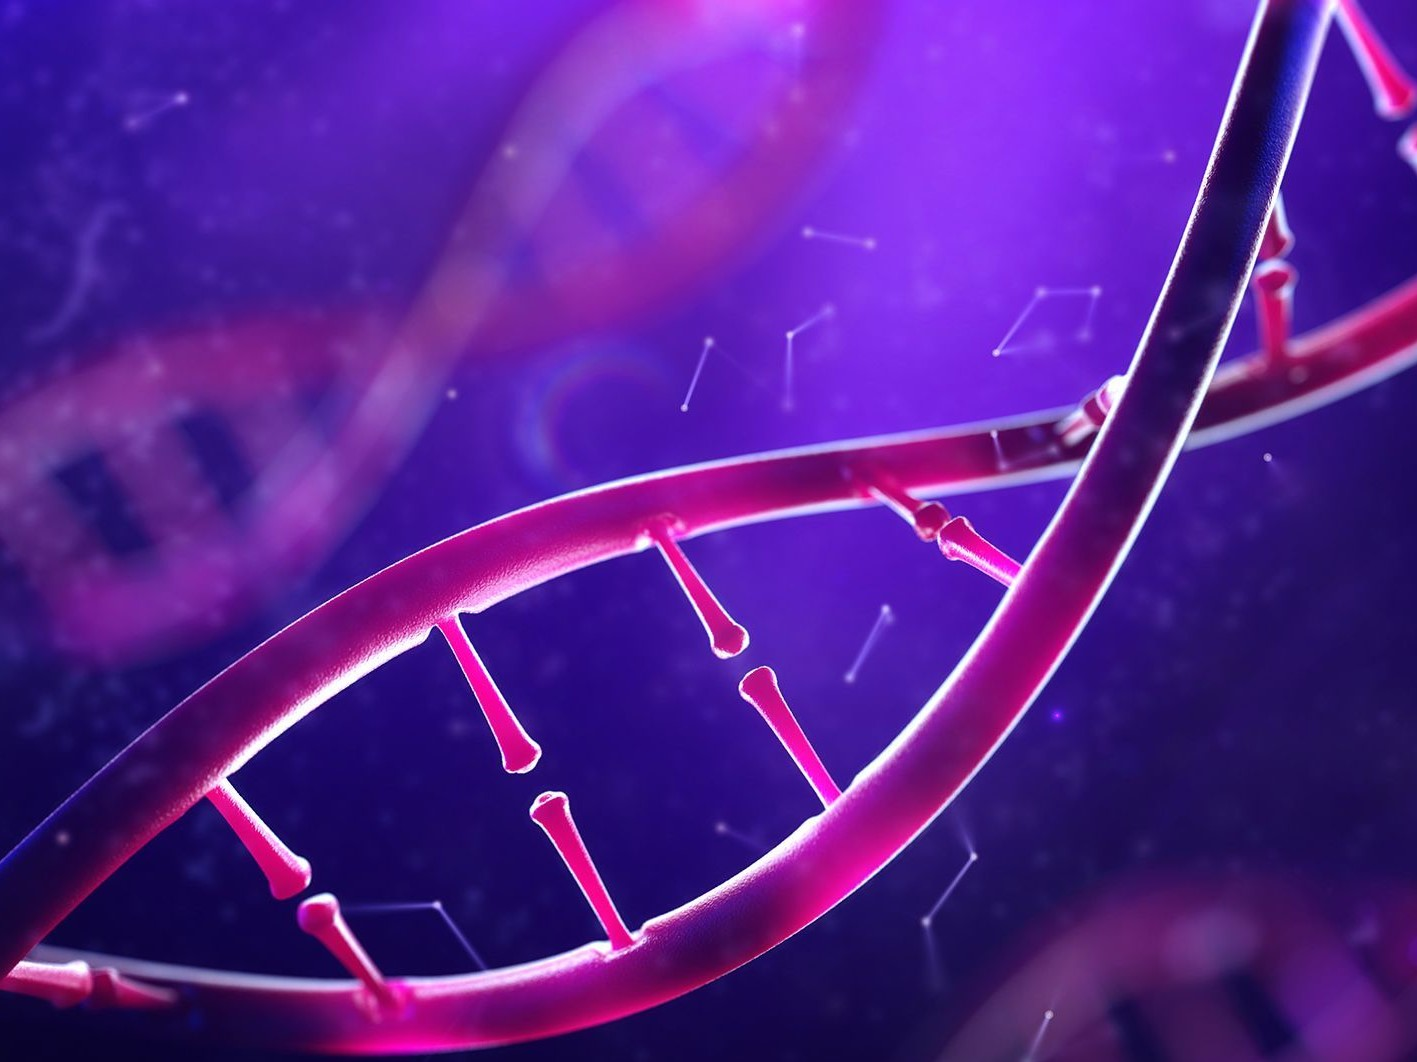
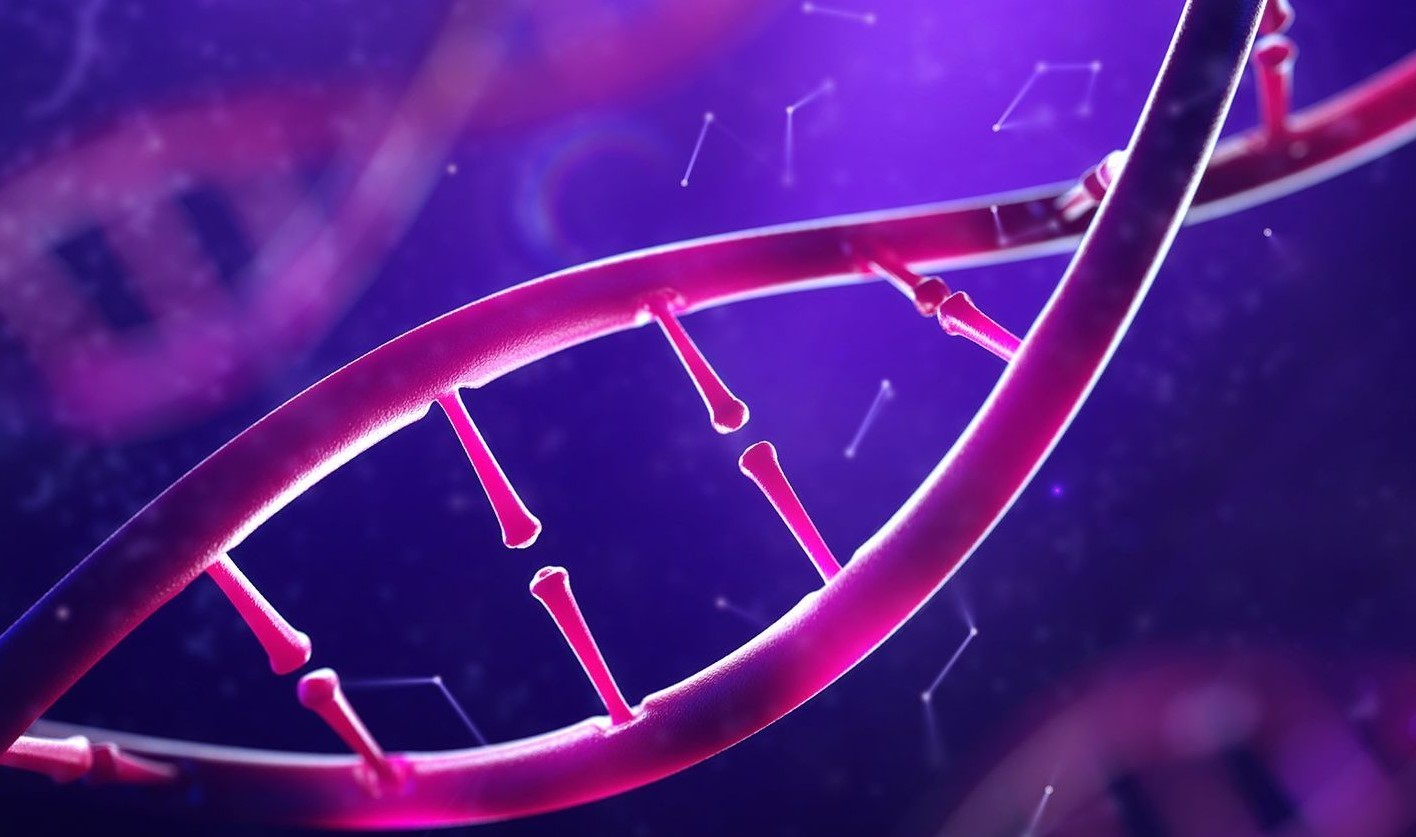
hasta educacion check

diff --git a/src/app/app.module.ts b/src/app/app.module.ts
@@ -4,7 +4,7 @@ import { BrowserModule } from '@angular/platform-browser';
 import { AppRoutingModule } from './app-routing.module';
 import { AppComponent } from './app.component';
 import { EncabezadoComponent } from './components/encabezado/encabezado.component';
-import { AcercaDeComponent } from './components/acerca-de/acerca-de.component';
+
 import { ExperienciaComponent } from './components/experiencia/experiencia.component';
 import { SkillsComponent } from './components/skills/skills.component';
 import { HttpClientModule } from '@angular/common/http';
@@ -13,8 +13,10 @@ import { ProyectosComponent } from './components/proyectos/proyectos.component';
 import { ButtonComponent } from './components/button/button.component';
 import { InfosobremiComponent } from './components/infosobremi/infosobremi.component';
 import { FooterComponent } from './components/footer/footer.component';
-import { FotoperfilComponent } from './components/fotoperfil/fotoperfil.component';
+
 import { BannerComponent } from './components/banner/banner.component';
+
+import { AcercaDeComponent } from './components/acerca-de/acerca-de.component';
 
 
 
@@ -24,7 +26,7 @@ import { BannerComponent } from './components/banner/banner.component';
   declarations: [
     AppComponent,
     EncabezadoComponent,
-    AcercaDeComponent,
+    
     ExperienciaComponent,
     SkillsComponent,
     EducacionComponent,
@@ -33,8 +35,10 @@ import { BannerComponent } from './components/banner/banner.component';
     ButtonComponent,
     InfosobremiComponent,
     FooterComponent,
-    FotoperfilComponent,
+ 
     BannerComponent,
+
+    AcercaDeComponent,
 
   
   ],

diff --git a/src/app/components/experiencia/experiencia.component.html b/src/app/components/experiencia/experiencia.component.html
@@ -1,6 +1,36 @@
 <!--experiencia-->
-<h5>Experiencia</h5>
-<p id="experiencia"></p>
+    <h4 class="mt-3">Experiencia</h4>
+
+<!-- experiencia-->
+<div class="row">
+    <div class="col-md-4">
+      <img src="asdas" class="img-fluid">
+      <h4 class="text-center">Compunet Santa Fe</h4>
+      <p>Interdum et malesuada fames ac ante ipsum primis in faucibus. Nunc rhoncus blandit aliquet. Mauris pellentesque lacus at orci maximus posuere. Etiam non sem massa. Donec vel nisi sit amet metus porttitor gravida. Cras varius sodales purus, sit amet mattis metus. </p>
+    </div>
+
+    <div class="col-md-4">
+      <img src="assets/fhu" class="img-fluid">
+      <h4 class="text-center">ASDASD</h4>
+      <p>Interdum et malesuada fames ac ante ipsum primis in faucibus. Nunc rhoncus blandit aliquet. Mauris pellentesque lacus at orci maximus posuere. Etiam non sem massa. Donec vel nisi sit amet metus porttitor gravida. Cras varius sodales purus, sit amet mattis metus. </p>
+    </div>
+
+    <div class="col-md-4">
+      <img src="assets/fbcb" class="img-fluid">
+      <h4 class="text-center">ASDASDASDASD</h4>
+      <p>Interdum et malesuada fames ac ante ipsum primis in faucibus. Nunc rhoncus blandit aliquet. Mauris pellentesque lacus at orci maximus posuere. Etiam non sem massa. Donec vel nisi sit amet metus porttitor gravida. Cras varius sodales purus, sit amet mattis metus. </p>      
+    </div>
+  
+
+</div>
+
+    
+
+
+
+
+
+
 
 
 

diff --git a/src/app/components/acerca-de/acerca-de.component.html b/src/app/components/acerca-de/acerca-de.component.html
@@ -1,6 +1,19 @@
-<!--acerca de-->
-<h5 class="col 12 mt-3">{{title}}</h5>
+<div class="row">
+    <div class="col-xs-12 col.sm-2 col-md-2 col-lg-2">
+        <img src="../../../assets/fperfil.jpg" class="img-fluid" id="fotoperfil">
+    </div>
 
-    <app-infosobremi></app-infosobremi>
+    <div class="col-xs-12 col.sm-2 col-md-2 col-lg-2">
+        <p id="myname">Irene Chiappara</p>
+        <p>Full Stack Developer Junior</p>
+    </div>
 
+    <div class="col-xs-12 col.sm-8 col-md-8 col-lg-8">
+        <span>
+            <h1>Acerca de mí</h1>
+            <p>Lorem, ipsum dolor sit amet consectetur adipisicing elit. Itaque, eligendi maxime ab incidunt mollitia corporis ea a deserunt in dignissimos laborum, totam dolorem! Ab voluptas vel velit beatae dolor excepturi.</p>
+        </span>
+    </div>
+
+</div>
 

diff --git a/src/app/components/educacion/educacion.component.html b/src/app/components/educacion/educacion.component.html
@@ -1,11 +1,11 @@
-<h5 class="mt-3">{{educacion}}</h5>
+<h4 class="mt-3">{{educacion}}</h4>
 
  
  
 <!-- Instituciones educativas-->
 <div class="row">
     <div class="col-md-4">
-      <img src="asdas" class="img-fluid">
+      <img src="assets/SanJose.png" class="img-fluid" id="logoescuela">
       <h4 class="text-center">Colegio San José</h4>
       <p>Interdum et malesuada fames ac ante ipsum primis in faucibus. Nunc rhoncus blandit aliquet. Mauris pellentesque lacus at orci maximus posuere. Etiam non sem massa. Donec vel nisi sit amet metus porttitor gravida. Cras varius sodales purus, sit amet mattis metus. </p>
     </div>

diff --git a/src/app/components/acerca-de/acerca-de.component.ts b/src/app/components/acerca-de/acerca-de.component.ts
@@ -1,5 +1,4 @@
 import { Component, OnInit } from '@angular/core';
-import { PortfolioService } from 'src/app/servicios/portfolio.service';
 
 @Component({
   selector: 'app-acerca-de',
@@ -7,12 +6,10 @@ import { PortfolioService } from 'src/app/servicios/portfolio.service';
   styleUrls: ['./acerca-de.component.css']
 })
 export class AcercaDeComponent implements OnInit {
- title = "Acerca de";
 
-  constructor(private datosPortfolio:PortfolioService) { }
+  constructor() { }
 
   ngOnInit(): void {
-    this.datosPortfolio.obtenerDatos();
   }
 
 }

diff --git a/src/app/components/acerca-de/acerca-de.component.css b/src/app/components/acerca-de/acerca-de.component.css
@@ -1,0 +1,24 @@
+.row {
+    padding: 20px;
+    
+}
+
+/*foto de perfil */
+
+@media (min-width: 576px){
+    #fotoperfil {
+        border-radius: 100%;
+        position: absolute;
+        width: 15%;
+        top: 800px;
+       
+    }
+}
+
+/* corregir las redimensiones en pantallas pequeñas con @media*/
+
+#myname {
+    font-weight: bolder;
+    font-size:0.7cm;
+}
+

diff --git a/src/app/components/proyectos/proyectos.component.html b/src/app/components/proyectos/proyectos.component.html
@@ -1,7 +1,7 @@
  
 <!-- Proyectos -->
 <div class="row">
-    <h5 class="mt-3 text-center loooz"><span>Proyectos</span></h5>
+    <h4 class="mt-3 text-center loooz"><span>Proyectos</span></h4>
     <div class="col-md-4">
       <img src="assets/programing.png" id="foto" class="img-fluid">
       <h4 class="text-center">#SéProgramar Argentina Programa</h4>

diff --git a/src/app/components/skills/skills.component.html b/src/app/components/skills/skills.component.html
@@ -1,6 +1,7 @@
 <!--SKILLS progress bar-->
 
-<h5 class="mt-3">Hard & Soft Skills</h5>
+<h4 class="mt-3">Hard & Soft Skills</h4>
+
 <div class="row"></div>
 <div class="col-lg-6">
 <p class="mt-3"><b>English</b></p>

diff --git a/src/app/app.component.html b/src/app/app.component.html
@@ -1,8 +1,6 @@
 
 <app-encabezado></app-encabezado>
 
-<app-fotoperfil></app-fotoperfil>
-
 <app-acerca-de></app-acerca-de>
 
 <app-experiencia></app-experiencia>

diff --git a/src/app/components/educacion/educacion.component.css b/src/app/components/educacion/educacion.component.css
@@ -1,0 +1,13 @@
+
+#logoescuela { 
+    zoom: 10%;
+    margin-left: 42%;
+}
+
+.row {
+    padding: 20px;
+}
+
+.mt-3 {
+    padding: 20px;
+}

diff --git a/src/app/components/proyectos/proyectos.component.css b/src/app/components/proyectos/proyectos.component.css
@@ -12,3 +12,11 @@
     color: blueviolet;
 
 }
+
+.row {
+    padding: 20px;
+}
+
+.mt-3 {
+    padding: 20px;
+}

diff --git a/src/app/components/banner/banner.component.css b/src/app/components/banner/banner.component.css
@@ -1,4 +1,4 @@
 img { 
     width: 100%;
-    height: 750px;
+    height: 800px;
 }
